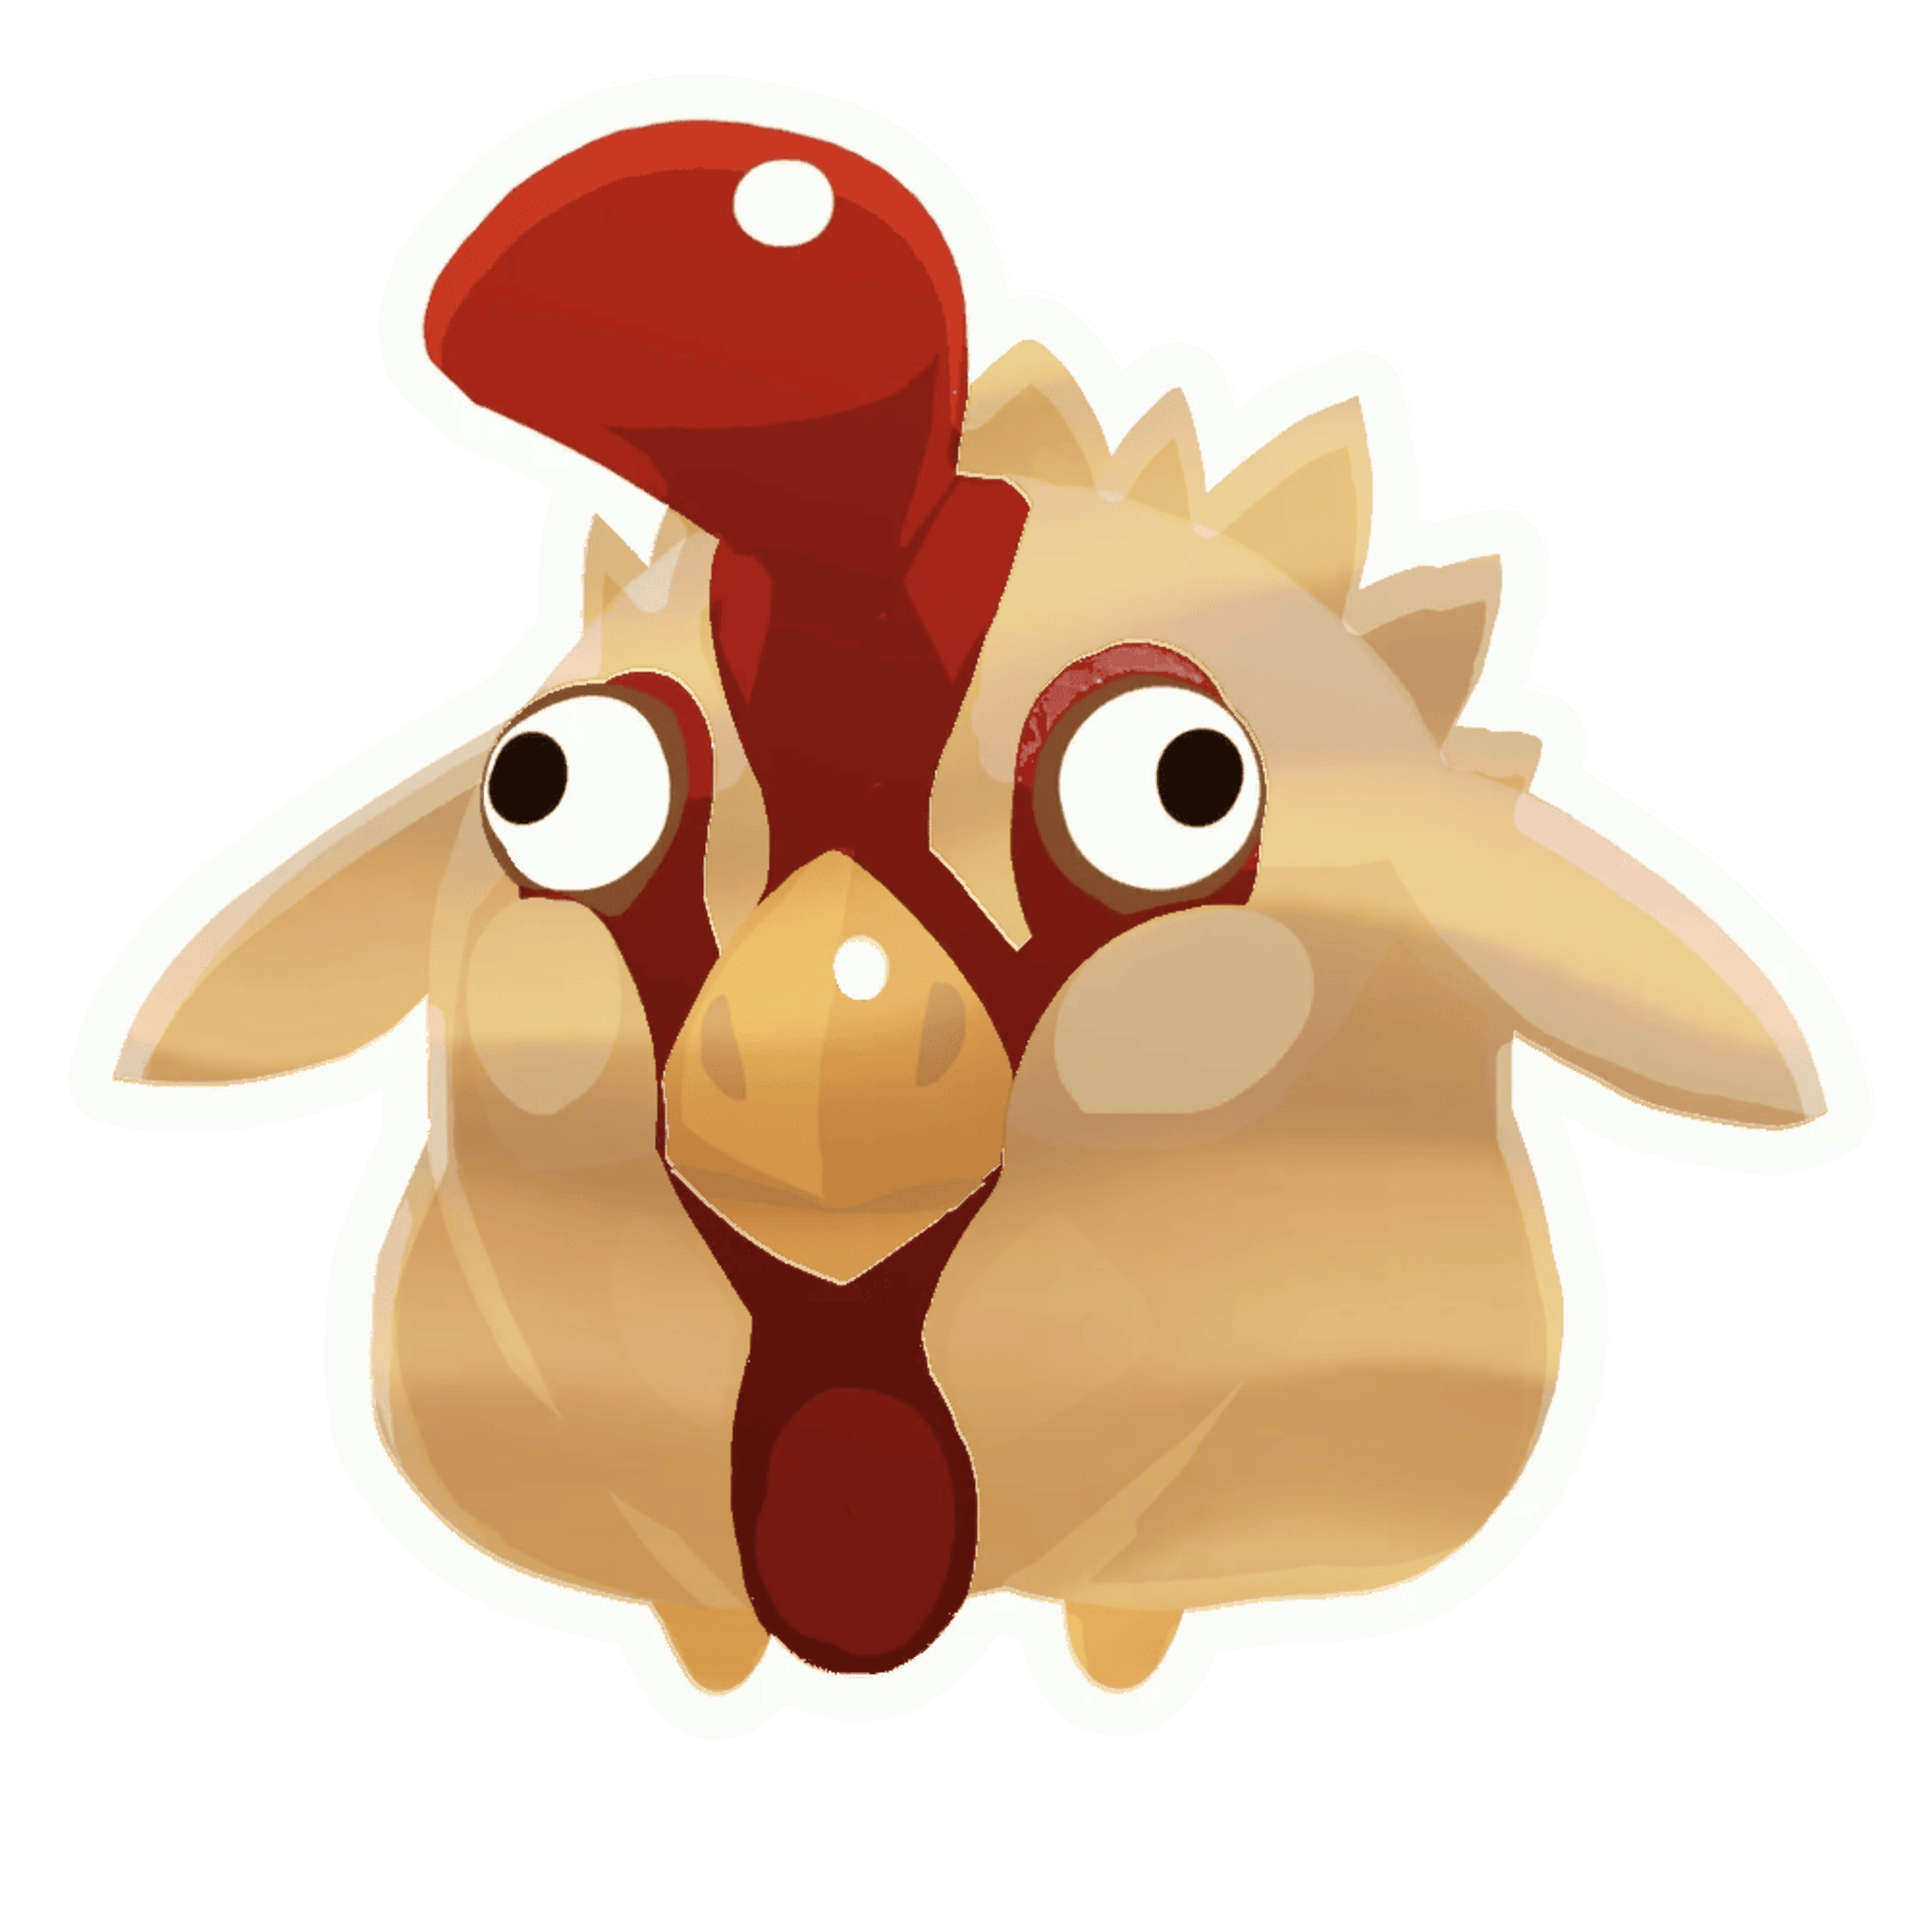
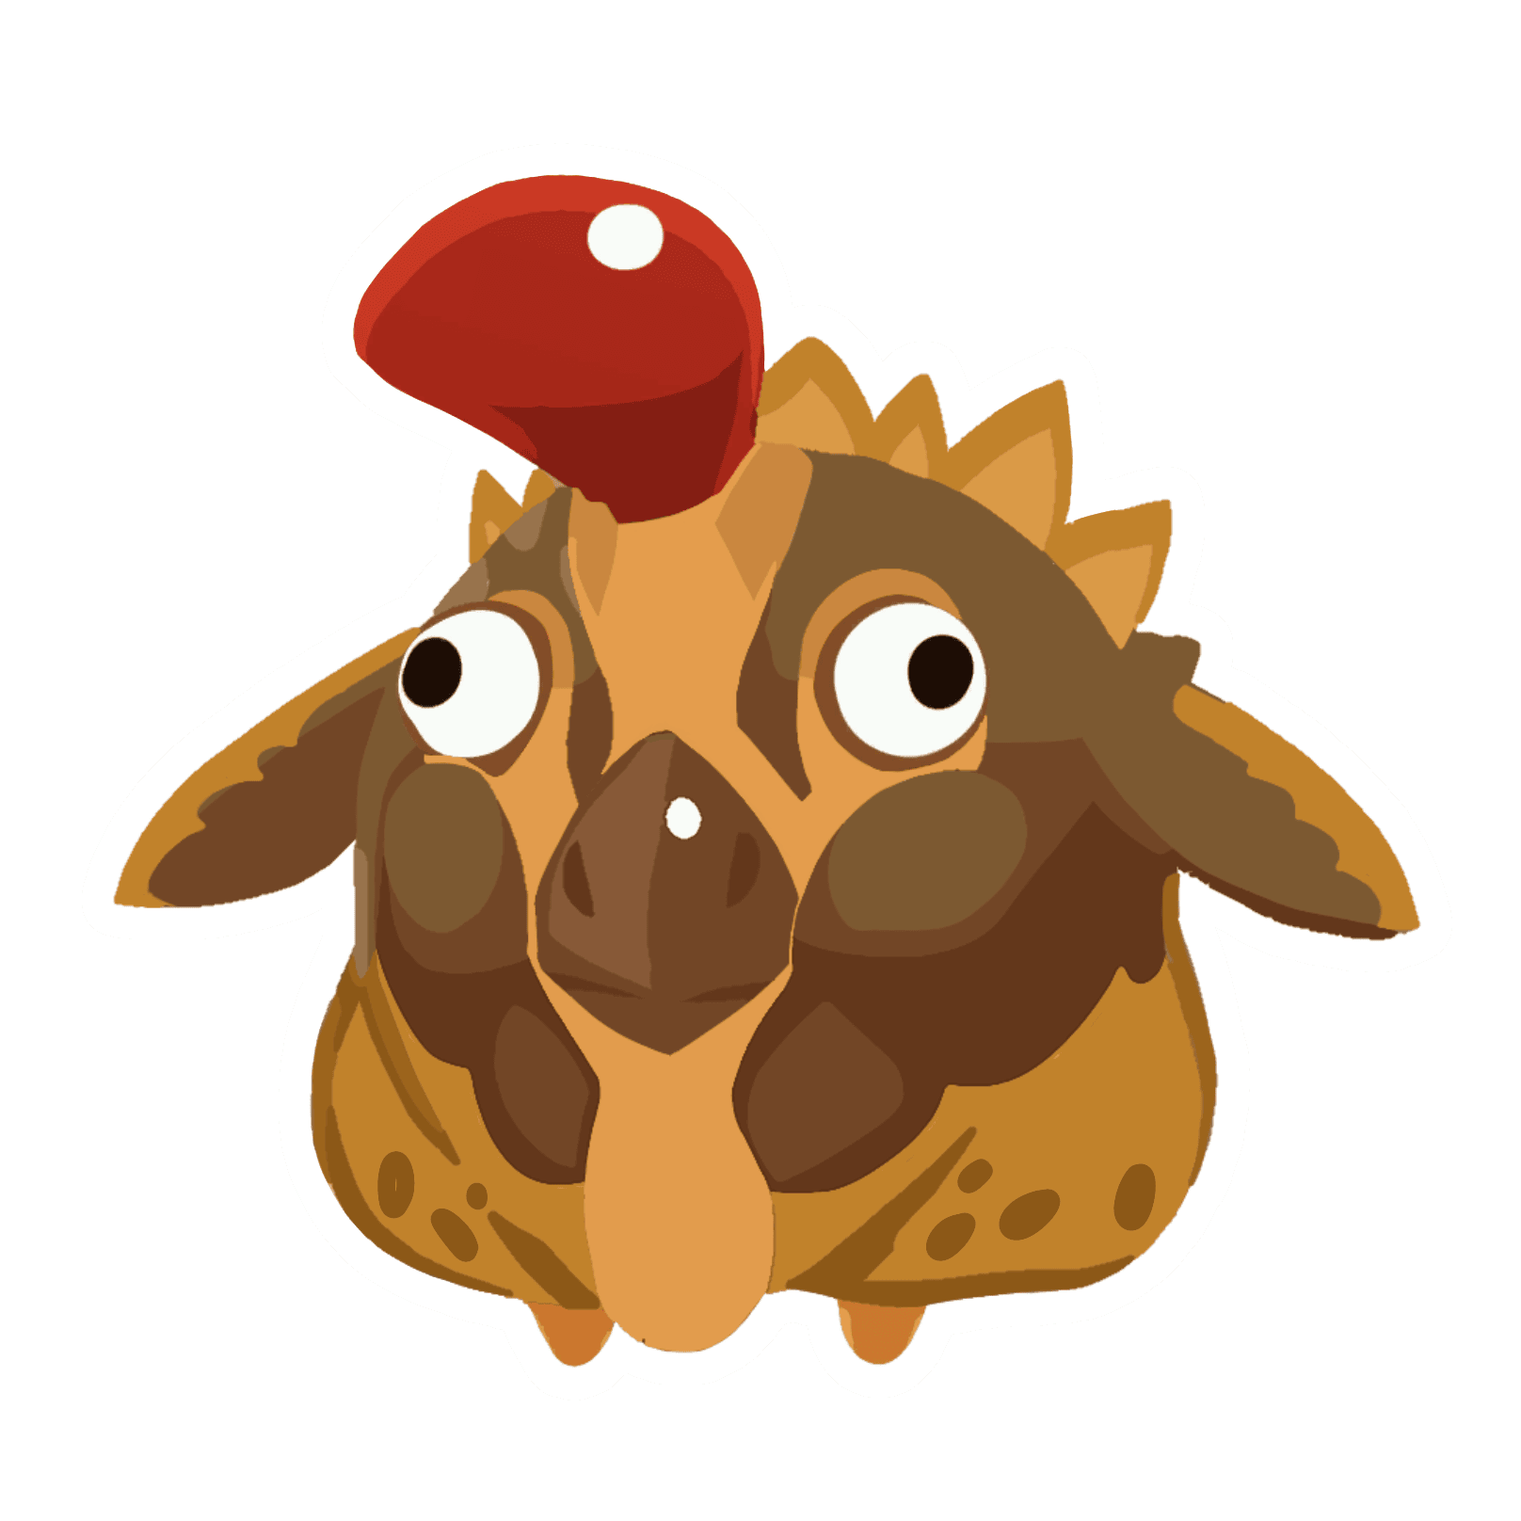
mesh calculation improvement + radiant hens

diff --git a/Source/Patches/MeshUtilsFix.cs b/Source/Patches/MeshUtilsFix.cs
@@ -1,0 +1,110 @@
+using AssetsLib;
+
+namespace TheOceanRange.Patches;
+
+[HarmonyPatch(typeof(MeshUtils), nameof(MeshUtils.GenerateBoneData), typeof(SlimeAppearanceApplicator), typeof(SlimeAppearanceObject), typeof(float), typeof(float), typeof(Mesh[]), typeof(SlimeAppearanceObject[]))]
+public static class MeshUtilsFixPatch
+{
+    public static void Postfix(SlimeAppearanceApplicator slimePrefab, SlimeAppearanceObject bodyApp, float jiggleAmount, float scale, [HarmonyArgument(4)] Mesh[] additionalMesh, SlimeAppearanceObject[] appearanceObjects)
+    {
+        if (!slimePrefab)
+            throw new ArgumentNullException(nameof(slimePrefab));
+
+        if (!bodyApp)
+            throw new ArgumentNullException(nameof(bodyApp));
+
+        additionalMesh ??= [];
+        appearanceObjects ??= [];
+
+        var sharedMesh = bodyApp.GetComponent<SkinnedMeshRenderer>().sharedMesh;
+        bodyApp.AttachedBones =
+        [
+            SlimeAppearance.SlimeBone.Slime,
+            SlimeAppearance.SlimeBone.JiggleRight,
+            SlimeAppearance.SlimeBone.JiggleLeft,
+            SlimeAppearance.SlimeBone.JiggleTop,
+            SlimeAppearance.SlimeBone.JiggleBottom,
+            SlimeAppearance.SlimeBone.JiggleFront,
+            SlimeAppearance.SlimeBone.JiggleBack
+        ];
+
+        foreach (var slimeAppearanceObject in appearanceObjects)
+        {
+            if (!slimeAppearanceObject)
+                throw new NullReferenceException("One or more of the SlimeAppearanceObjects are null");
+            else
+                slimeAppearanceObject.AttachedBones = bodyApp.AttachedBones;
+        }
+
+        var vertices = sharedMesh.vertices;
+        var zero = Vector3.zero;
+
+        foreach (var vector in vertices)
+            zero += vector;
+
+        var vector3 = zero / vertices.Length;
+        var num = vertices.Sum(x => (x - vector3).magnitude) / vertices.Length;
+        var list = new List<Mesh> { sharedMesh };
+
+        foreach (var slimeAppearanceObject2 in appearanceObjects)
+        {
+            if (slimeAppearanceObject2.TryGetComponent<SkinnedMeshRenderer>(out var rend))
+                list.Add(rend.sharedMesh);
+            else
+                Debug.LogWarning("One of the SlimeAppearanceObjects provided to AssetsLib.MeshUtils.GenerateBoneData does not use a SkinnedMeshRenderer");
+        }
+
+        list.AddRange(additionalMesh);
+
+        foreach (var item in list)
+        {
+            if (!item)
+            {
+                Debug.LogWarning("One of the Meshes provided to AssetsLib.MeshUtils.GenerateBoneData is null");
+                continue;
+            }
+
+            var vertices2 = item.vertices;
+            var array4 = new BoneWeight[vertices2.Length];
+
+            for (var n = 0; n < vertices2.Length; n++)
+            {
+                var diff = vertices2[n] - vector3;
+                var num2 = Mathf.Clamp01((diff.magnitude - (num / 4f)) / (num / 2f) * jiggleAmount);
+                var weight = default(BoneWeight);
+
+                if (num2 == 0f)
+                    weight.weight0 = 1f;
+                else
+                {
+                    weight.weight0 = 1f - num2;
+                    weight.boneIndex1 = (diff.x >= 0f) ? 1 : 2;
+                    weight.boneIndex2 = (diff.y >= 0f) ? 3 : 4;
+                    weight.boneIndex3 = (diff.z >= 0f) ? 5 : 6;
+                    var value = diff.Multiply(diff).Multiply(diff).Abs();
+                    var num3 = value.ToArray().Sum();
+                    weight.weight1 = value.x / num3 * num2;
+                    weight.weight2 = value.y / num3 * num2;
+                    weight.weight3 = value.z / num3 * num2;
+                }
+
+                weight.weight0 *= scale;
+                weight.weight1 *= scale;
+                weight.weight2 *= scale;
+                weight.weight3 *= scale;
+
+                array4[n] = weight;
+            }
+
+            item.boneWeights = array4;
+            item.bindposes = new Matrix4x4[bodyApp.AttachedBones.Length];
+
+            for (var i = 0; i < bodyApp.AttachedBones.Length; i++)
+            {
+                item.bindposes[i]
+                    = slimePrefab.Bones.First(x => x.Bone == bodyApp.AttachedBones[i]).BoneObject.transform.worldToLocalMatrix
+                    * slimePrefab.Bones.First(x => x.Bone == SlimeAppearance.SlimeBone.Root).BoneObject.transform.localToWorldMatrix;
+            }
+        }
+    }
+}

diff --git a/Source/Managers/SlimeManager.cs b/Source/Managers/SlimeManager.cs
@@ -11,7 +11,7 @@ public static class SlimeManager
 {
     public static readonly List<CustomSlimeData> Slimes = [];
     public static SlimeExpressionFace SleepingFace;
-    // public static string[] VanillaSlimes = ["PINK", "ROCK", "PHOSPHOR", "PUDDLE", "FIRE", "CRYSTAL", "RAD", "BOOM", "TANGLE", "DERVISH", "TABBY", "HUNTER", "SABER", "HONEY", "MOSAIC", "QUANTUM"];
+    // public static readonly string[] VanillaSlimes = ["PINK", "ROCK", "PHOSPHOR", "PUDDLE", "FIRE", "CRYSTAL", "RAD", "BOOM", "TANGLE", "DERVISH", "TABBY", "HUNTER", "SABER", "HONEY", "MOSAIC", "QUANTUM"];
 
     private static bool SamExists;
     private static Transform RocksPrefab;
@@ -86,7 +86,7 @@ public static class SlimeManager
                 localEulerAngles = slimeData.GordoRotation,
                 localScale = Vector3.one
             }
-        }.BuildGordo(slimeData, Helpers.GetObjectFromName<GameObject>("cellReef_Intro").FindChild("Sector").FindChild("Slimes"));
+        }.BuildGordo(slimeData, Helpers.GetObjectFromName<GameObject>(slimeData.GordoLocation).FindChild("Sector/Slimes"));
     };
 
     public static void LoadAllSlimes()
@@ -109,9 +109,7 @@ public static class SlimeManager
     {
         CreatePlort(slimeData);
         CreateSlime(slimeData);
-
-        if (slimeData.HasGordo)
-            CreateGordo(slimeData);
+        CreateGordo(slimeData);
 
         if (SamExists)
             TypeLoadExceptionBypass(slimeData);
@@ -119,6 +117,9 @@ public static class SlimeManager
 
     private static void CreateGordo(CustomSlimeData slimeData)
     {
+        if (!slimeData.HasGordo)
+            return;
+
         var prefab = slimeData.BaseGordo.GetPrefab().CreatePrefab();
         prefab.name = "gordo" + slimeData.Name;
 
@@ -170,6 +171,11 @@ public static class SlimeManager
         LookupRegistry.RegisterGordo(prefab);
         LookupRegistry.RegisterIdentifiablePrefab(prefab);
         SlimeRegistry.RegisterSlimeDefinition(gordoDefinition);
+    }
+
+    private static void GenerateBones(this GameObject gordo, float scale, float jiggleAmount, params string[] meshNames)
+    {
+
     }
 
     private static void CreatePlort(CustomSlimeData slimeData)
@@ -362,8 +368,7 @@ public static class SlimeManager
         TranslationPatcher.AddActorTranslation("l." + slimeIdName, title);
 
         SlimePediaCreation.PreLoadSlimePediaConnection(slimeData.MainEntry, slimeData.MainId, PediaCategory.SLIMES);
-        SlimePediaCreation.CreateSlimePediaForSlimeWithName(slimeData.MainEntry, title, slimeData.MainIntro, slimeData.PediaDiet, slimeData.Fav, slimeData.Slimeology, slimeData.Risks,
-            slimeData.Plortonomics);
+        SlimePediaCreation.CreateSlimePediaForSlimeWithName(slimeData.MainEntry, title, slimeData.MainIntro, slimeData.PediaDiet, slimeData.Fav, slimeData.Slimeology, slimeData.Risks, slimeData.Plortonomics);
         PediaRegistry.RegisterIdEntry(slimeData.MainEntry, appearance.Icon);
     }
 
@@ -426,7 +431,7 @@ public static class SlimeManager
             var prefab2 = elemPrefab.CreatePrefab();
             elem.Prefabs = [prefab2];
             var meshRend = prefab2.GetComponent<SkinnedMeshRenderer>();
-            meshRend.sharedMesh = isNull ? meshRend.sharedMesh.Instantiate() : AssetManager.GetMesh(meshName);
+            meshRend.sharedMesh = isNull ? meshRend.sharedMesh.Clone() : AssetManager.GetMesh(meshName);
             prefab2.IgnoreLODIndex = true;
             structure.SupportsFaces = i == 0;
 

diff --git a/Source/Ids.cs b/Source/Ids.cs
@@ -7,6 +7,8 @@ namespace TheOceanRange;
 [EnumHolder]
 public static class Ids
 {
+    public static readonly SlimeFace.SlimeExpression Sleeping;
+
     public static readonly IdentifiableId ROSI_SLIME;
     public static readonly IdentifiableId ROSI_PLORT;
     public static readonly IdentifiableId ROSI_GORDO;
@@ -31,24 +33,22 @@ public static class Ids
     public static readonly IdentifiableId SAND_PLORT;
     public static readonly PediaId SAND_SLIME_ENTRY;
 
-    // public static readonly Zone SWIRLPOOL;
-
     public static readonly IdentifiableId SANDY_HEN;
     public static readonly PediaId SANDY_HEN_ENTRY;
 
     public static readonly IdentifiableId SANDY_CHICK;
     public static readonly PediaId SANDY_CHICK_ENTRY;
 
-    // public static readonly IdentifiableId RADIANT_HEN;
-    // public static readonly PediaId RADIANT_HEN_ENTRY;
+    public static readonly IdentifiableId RADIANT_HEN;
+    public static readonly PediaId RADIANT_HEN_ENTRY;
 
-    // public static readonly IdentifiableId RADIANT_CHICK;
-    // public static readonly PediaId RADIANT_CHICK_ENTRY;
+    public static readonly IdentifiableId RADIANT_CHICK;
+    public static readonly PediaId RADIANT_CHICK_ENTRY;
 
     // public static readonly IdentifiableId BLOWTATO_VEGGIE;
     // public static readonly PediaId BLOWTATO_VEGGIE_ENTRY;
 
-    public static readonly SlimeFace.SlimeExpression Sleeping;
-
     // public static readonly RancherChatMetadata.Entry.RancherName LISA;
+
+    // public static readonly Zone SWIRLPOOL;
 }

diff --git a/Source/Utils/Helpers.cs b/Source/Utils/Helpers.cs
@@ -1,7 +1,5 @@
 // using SRML;
 using AssetsLib;
-using SRML.SR.SaveSystem;
-using SRML.SR.Utils;
 using SRML.Utils;
 
 namespace TheOceanRange.Utils;
@@ -144,5 +142,40 @@ public static class Helpers
         }
 
         return null;
+    }
+
+    public static Mesh Clone(this Mesh originalMesh)
+    {
+        var mesh = new Mesh
+        {
+            vertices = originalMesh.vertices,
+            triangles = originalMesh.triangles,
+            normals = originalMesh.normals,
+            tangents = originalMesh.tangents,
+
+            colors = originalMesh.colors,
+            colors32 = originalMesh.colors32,
+
+            name = originalMesh.name + "_Clone",
+
+            uv = originalMesh.uv,
+            uv2 = originalMesh.uv2,
+            uv3 = originalMesh.uv3,
+            uv4 = originalMesh.uv4,
+            uv5 = originalMesh.uv5,
+            uv6 = originalMesh.uv6,
+            uv7 = originalMesh.uv7,
+            uv8 = originalMesh.uv8,
+
+            subMeshCount = originalMesh.subMeshCount
+        };
+
+        for (var i = 0; i < originalMesh.subMeshCount; i++)
+            mesh.SetTriangles(originalMesh.GetTriangles(i), i);
+
+        mesh.RecalculateBounds();
+        mesh.RecalculateNormals();
+        mesh.RecalculateTangents();
+        return mesh;
     }
 }

diff --git a/Source/Patches/GordoSnarePatch.cs b/Source/Patches/GordoSnarePatch.cs
@@ -5,9 +5,7 @@ public static class GordoSnarePatch
 {
     public static bool Prefix(GordoSnare __instance, ref IdentifiableId __result)
     {
-        var bait = __instance.model.baitTypeId;
-
-        if (!SlimeManager.Slimes.TryFinding(x => x.FavFood == bait, out var id) || Randoms.SHARED.GetInRange(0, 100) > 70)
+        if (!SlimeManager.Slimes.TryFinding(x => x.FavFood == __instance.model.baitTypeId, out var id) || Randoms.SHARED.GetInRange(0, 100) > 70)
             return true;
 
         __result = id.GordoId;

diff --git a/Source/Modules/CustomSlimeData.cs b/Source/Modules/CustomSlimeData.cs
@@ -144,6 +144,9 @@ public sealed class CustomSlimeData : JsonData
     [JsonProperty("gordoRot")]
     public Vector3 GordoRotation;
 
+    [JsonProperty("gordoLoc")]
+    public string GordoLocation;
+
     [JsonProperty("plortExchangeWeight")]
     public float PlortExchangeWeight = 16f;
 
